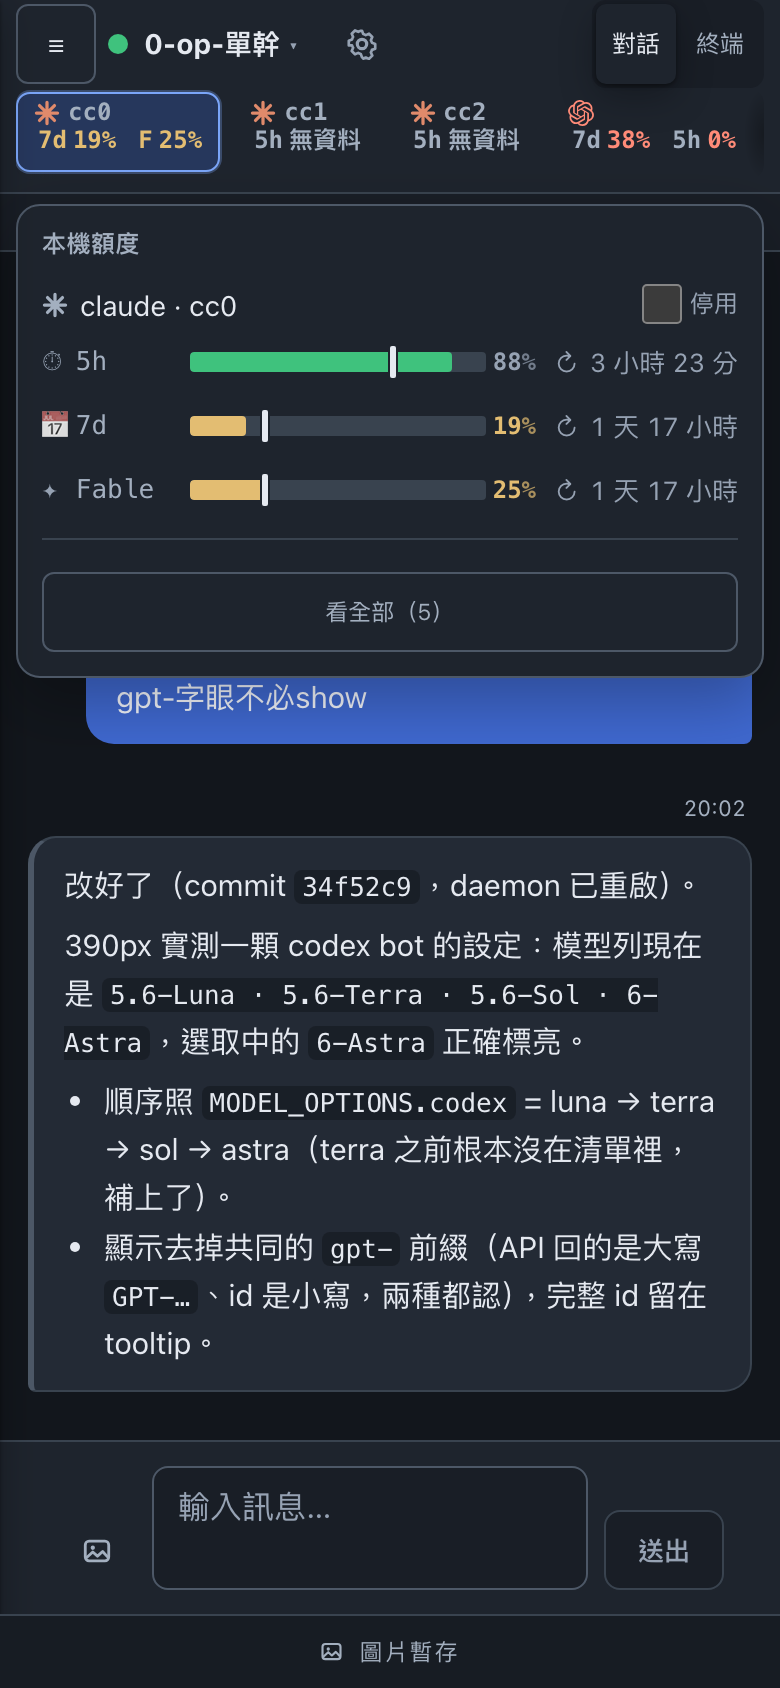
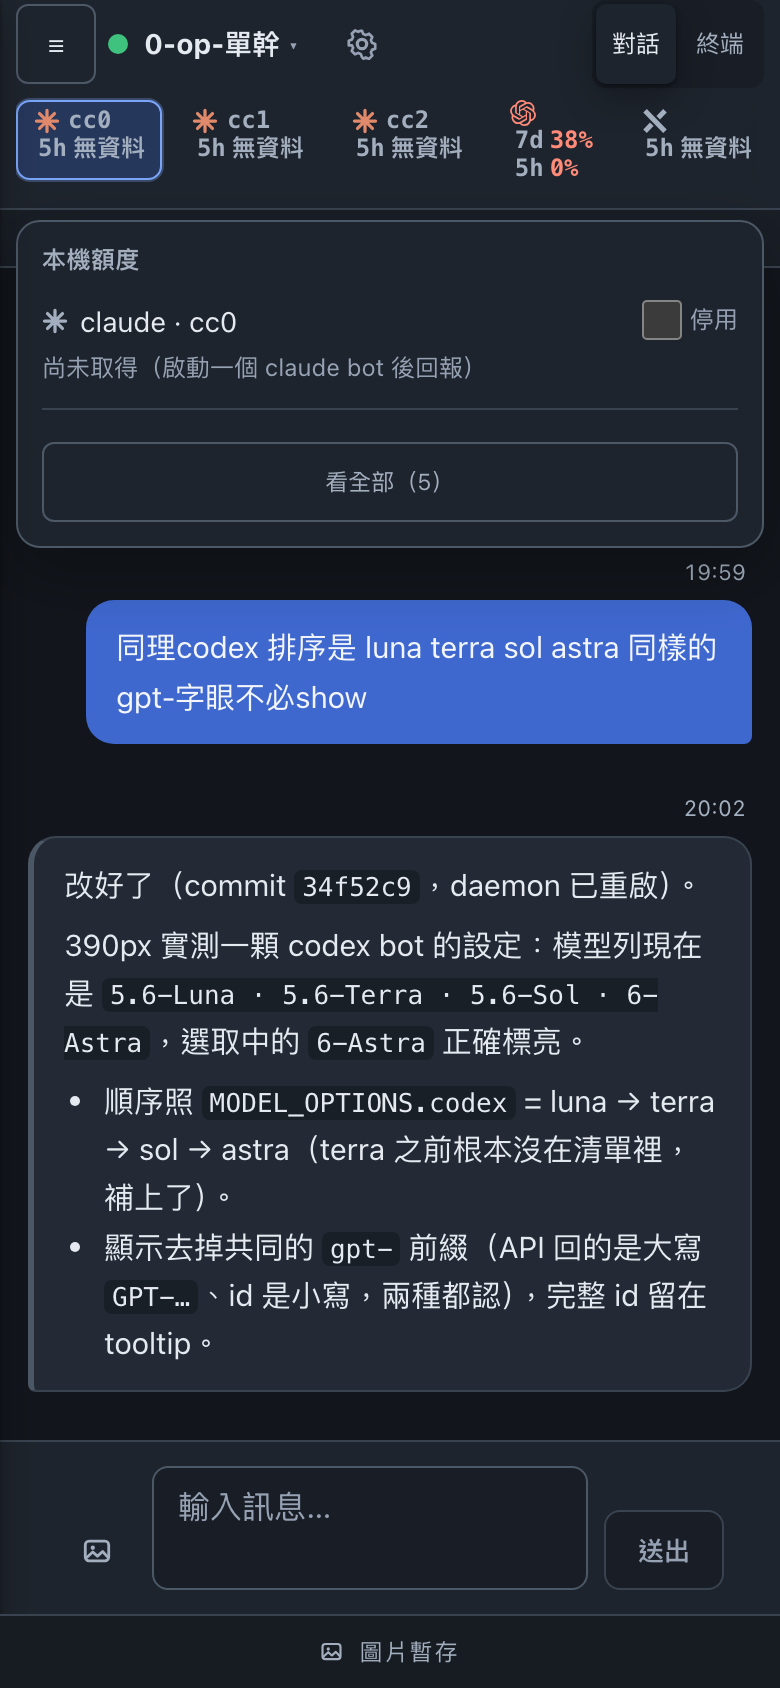
fix(web): 手機額度 chip 的警戒窗口往下排，不往右
這一列是橫向捲的，往右長會把後面的帳號推出畫面、得捲才看得到；往下長只是這一列
高一點，五個帳號仍然一眼看完。實拍 390px：codex 是 `7d 38%` 上、`5h 0%` 下兩行，
五顆 chip 一排放得下。沒有警戒的帳號只有一格，高度不變。

Claude-Session: https://claude.ai/code/session_01X4TuJDthEyYPWqA3oAXWem

Changed region(s): [[0.0, 0.0308, 0.9846, 0.4313], [0.9538, 0.1232, 0.9846, 0.154]]

diff --git a/web/src/styles.css b/web/src/styles.css
@@ -10394,6 +10394,19 @@ button.run-debug-toggle:hover {
     color: var(--text-dim);
   }
 
+  /* 追加的警戒窗口往**下**排，不往右（2026-09-09 使用者要求）：手機這一列是橫向捲的，
+     往右長會把後面的帳號推出畫面，得捲才看得到；往下長只是這一列高一點，五個帳號仍然
+     一眼看完。平常沒有警戒時只有一格，高度不變。 */
+  .main-head .quota-compact {
+    flex-direction: column;
+    align-items: flex-start;
+    gap: 2px;
+  }
+
+  .main-head .quota-compact-win + .quota-compact-win {
+    margin-left: 0;
+  }
+
   /* 顏色跟著**每個窗口自己**的等級走，不是整格的最差值：一顆 chip 上同時有 5h 與 7d，
      整格上色會把還很健康的那個也染黃。 */
   .main-head .quota-compact-win.warn .quota-compact-pct,

diff --git a/docs/UI-DECISIONS.md b/docs/UI-DECISIONS.md
@@ -774,5 +774,7 @@ to update`，套用的方式是重啟。原本每顆都要點一次 header 的 `
   固定在同一個位置、不被別的窗口擠掉。但「5h 只剩 0%」是現在就會擋住人的事，不能等到點開才
   知道——所以是**常駐一個＋例外才追加**，而不是收成最差的一個（7d 會被蓋掉）或三個全列
   （五個帳號一排捲不完）。
-- 平常沒有警戒時就只有一格，390px 五顆一排放得下（實拍）。其餘窗口點開來看：彈出層三條量表都在。
+- **追加的那格往下排，不往右**（使用者要求）：這一列是橫向捲的，往右長會把後面的帳號推出畫面、
+  得捲才看得到；往下長只是這一列高一點，五個帳號仍然一眼看完。
+- 平常沒有警戒時就只有一格，高度不變。其餘窗口點開來看：彈出層三條量表都在。
 - 顏色仍逐窗口決定（`.quota-compact-win`），因為固定寫 7d 時整格的「最差」可能是別的窗口。
